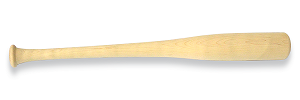
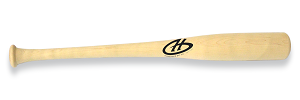
Images added. Final push for release 1

Changed region(s): [[0.54, 0.36, 0.66, 0.57]]

diff --git a/styles.css b/styles.css
@@ -1166,13 +1166,13 @@ sup {
 }
 
 .img-bat {
-	padding-top: 75px;
+
 	width: 300px;
-	height: 140px;
+	height: 300px;
 }
 
 #acc {
-	background: url(assets/tshirt.jpg);
+	background: url(assets/tshirt.png);
 	background-size: 300px 300px;
 }
 
@@ -1181,7 +1181,7 @@ sup {
 }
 
 option {
-	
+
 }
 
 #MAPLE {
@@ -1584,7 +1584,7 @@ a[href^="tel"]{
 .bat-image {
 	width: 125px;
 	height: 175px;
-	background-color: white;
+	background-image: url("assets/turf.png");
 	border: solid;
 	border-color: rgb(24, 53, 80);
 	border-width: 2px;
@@ -1924,6 +1924,13 @@ a {
 	font-family: secondFont;
 	padding-top: 0;
 	font-size: 12px;
+}
+
+.bat-image-m {
+	height: 175px;
+	width: 37px;
+	
+	margin-left: 45px;
 }
 
 

diff --git a/customize.js b/customize.js
@@ -11,24 +11,24 @@ $(document).ready(function() {
 
 	switch ($bat) {
 				case 'pro':
-					$image = "assets/pro-c.jpg";
+					$image = "assets/pro-c.png";
 				
 
 					break;
 				case 'game':
-					$image = "assets/game-c.jpg";
+					$image = "assets/pro-c.png";
 					
 
 					break;
 				case 'youth':
-					$image = "assets/youth-c.jpg";
+					$image = "assets/youth-c.png";
 
 					break;
 				case 'fungo':
-					$image = "assets/fungo-c.jpg";
+					$image = "assets/fungo-c.png";
 					break;
 				case 'promo':
-					$image = "assets/pro-c.jpg";
+					$image = "assets/pro-c.png";
 
 					break;
 				

diff --git a/index.php b/index.php
@@ -92,11 +92,11 @@
 				<div id="desktop-shop" class="shop-inner">
 					<div class="shop-container" id="s1">
 						<div class="shop-item">
-							<a href="customize.php?id=pro"><div class="item-picture"><img class="img-bat" src="assets/pro.jpg"></div></a>
+							<a href="customize.php?id=pro"><div class="item-picture"><img class="img-bat" src="assets/pro.png"></div></a>
 							<div class="item-desc">PRO BAT</div>
 						</div>
 						<div class="shop-item">
-							<a href="customize.php?id=fungo"><div class="item-picture"><img class="img-bat" src="assets/fungo.jpg"></div></a>
+							<a href="customize.php?id=fungo"><div class="item-picture"><img class="img-bat" src="assets/fungo.png"></div></a>
 							<div class="item-desc">FUNGO BAT</div>
 						</div>
 						
@@ -104,11 +104,11 @@
 					<div class="spacer-col"></div>
 					<div class="shop-container" id="s2">
 						<div class="shop-item">
-							<a href="customize.php?id=game"><div class="item-picture"><img class="img-bat" src="assets/game.jpg"></div></a>
+							<a href="customize.php?id=game"><div class="item-picture"><img class="img-bat" src="assets/game.png"></div></a>
 							<div class="item-desc">GAME BAT</div>
 						</div>
 						<div class="shop-item">
-							<a href="customize.php?id=promo"><div class="item-picture"><img class="img-bat" src="assets/pro.jpg"></div></a>
+							<a href="customize.php?id=promo"><div class="item-picture"><img class="img-bat" src="assets/pro.png"></div></a>
 							<div class="item-desc">PROMOTIONAL BAT</div>
 						</div>
 						
@@ -116,7 +116,7 @@
 					<div class="spacer-col"></div>
 					<div class="shop-container" id="s3">
 						<div class="shop-item">
-							<a href="customize.php?id=youth"><div class="item-picture"><img class="img-bat" src="assets/youth.jpg"></div></a>
+							<a href="customize.php?id=youth"><div class="item-picture"><img class="img-bat" src="assets/youth.png"></div></a>
 							<div class="item-desc">YOUTH BAT</div>
 						</div>
 						<div class="shop-item">

diff --git a/customize.php b/customize.php
@@ -13,7 +13,7 @@
 			$display = true;
 			$displayModels = true;
 			$showPrices = true;
-			$image = "assets/pro.jpg";
+			$imageM = "assets/prom.png";
 
 			break;
 		case 'game':
@@ -24,6 +24,7 @@
 			$desc = array("024" => "Barrel = 2.50/ Handle = .92 <br>Medium / large barrel diameter, Medium / long barrel, thin handle, flared knob", "110" => "Barrel = 2.46/ Handle = .97 <br>Medium barrel diameter, long barrel, thick handle, regular knob", "141" => "Barrel = 2.46/ Handle = .92 <br>Medium barrel diameter, long barrel, thin handle, regular knob", "243" => "Barrel = 2.52/ Handle = .94 <br>Large barrel diameter, long barrel , medium handle, regular knob", "271" => "Barrel = 2.48/ Handle = .94 <br>Medium barrel diameter, Tapered barrel, medium handle, flared knob");
 			$display = true;
 			$displayModels = true;
+			$imageM = "assets/gamem.png";
 
 			break;
 		case 'youth':
@@ -34,6 +35,7 @@
 			$display = true;
 			$displayModels = false;
 			$showWeight = false;
+			$imageM = "assets/youthm.png";
 			break;
 		case 'fungo':
 			$title = "FUNGO BAT | ";
@@ -43,6 +45,7 @@
 			$display = true;
 			$displayModels = false;
 			$showWeight = false;
+			$imageM = "assets/fungom.png";
 			break;
 		case 'promo':
 			$title = "PROMO BAT | ";
@@ -51,6 +54,7 @@
 			$models = array();
 			$display = false;
 			$displayModels = false;
+			$imageM = "assets/prom.png";
 
 			break;
 		
@@ -182,8 +186,10 @@
 		<div id="mobile-custom">
 			<div class="cart-row">
 				<div class="cart-col">
-					<div class="bat-image"></div>
-					
+					<div class="bat-image">
+					<?php
+						echo '<img class="bat-image-m" src='.$imageM.'></div>';
+					?>
 				</div>
 				<div class="cart-col">
 					<div class="bat-title"><?php echo $title; ?></div>
